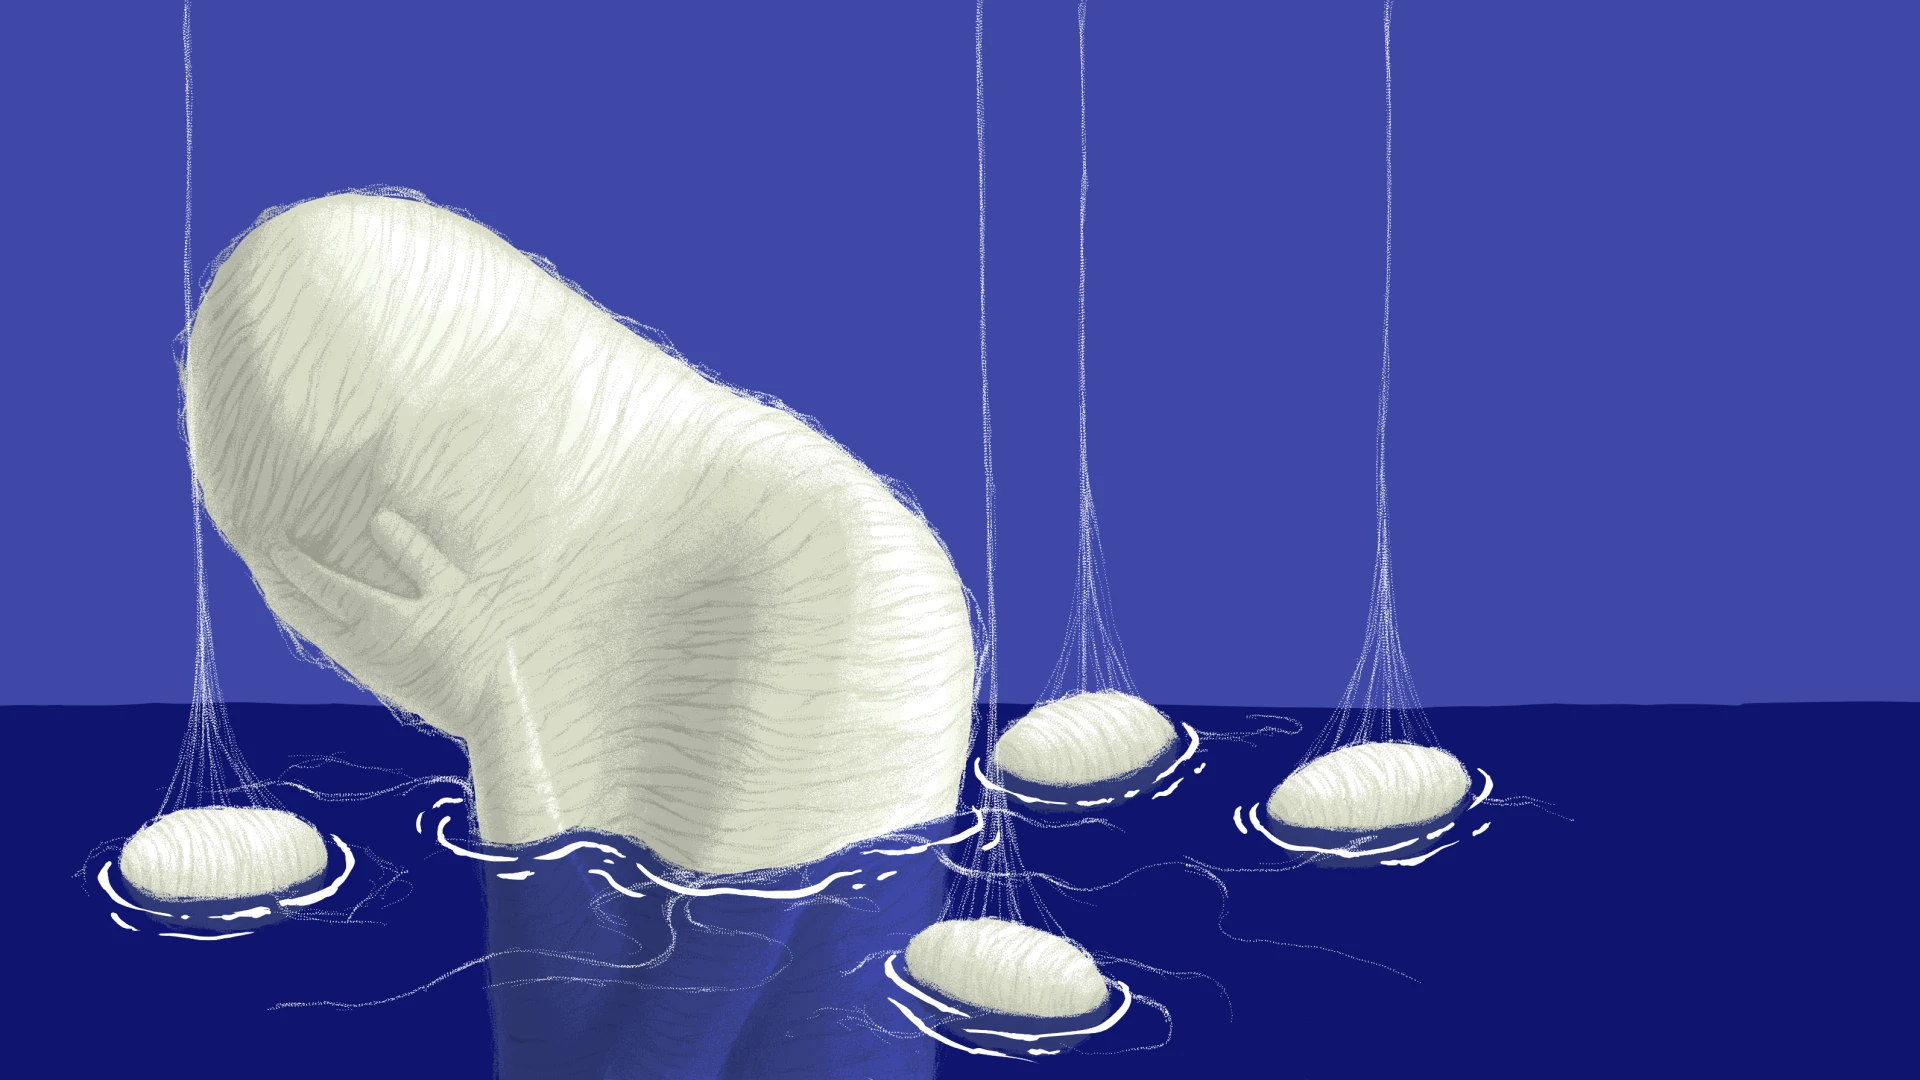
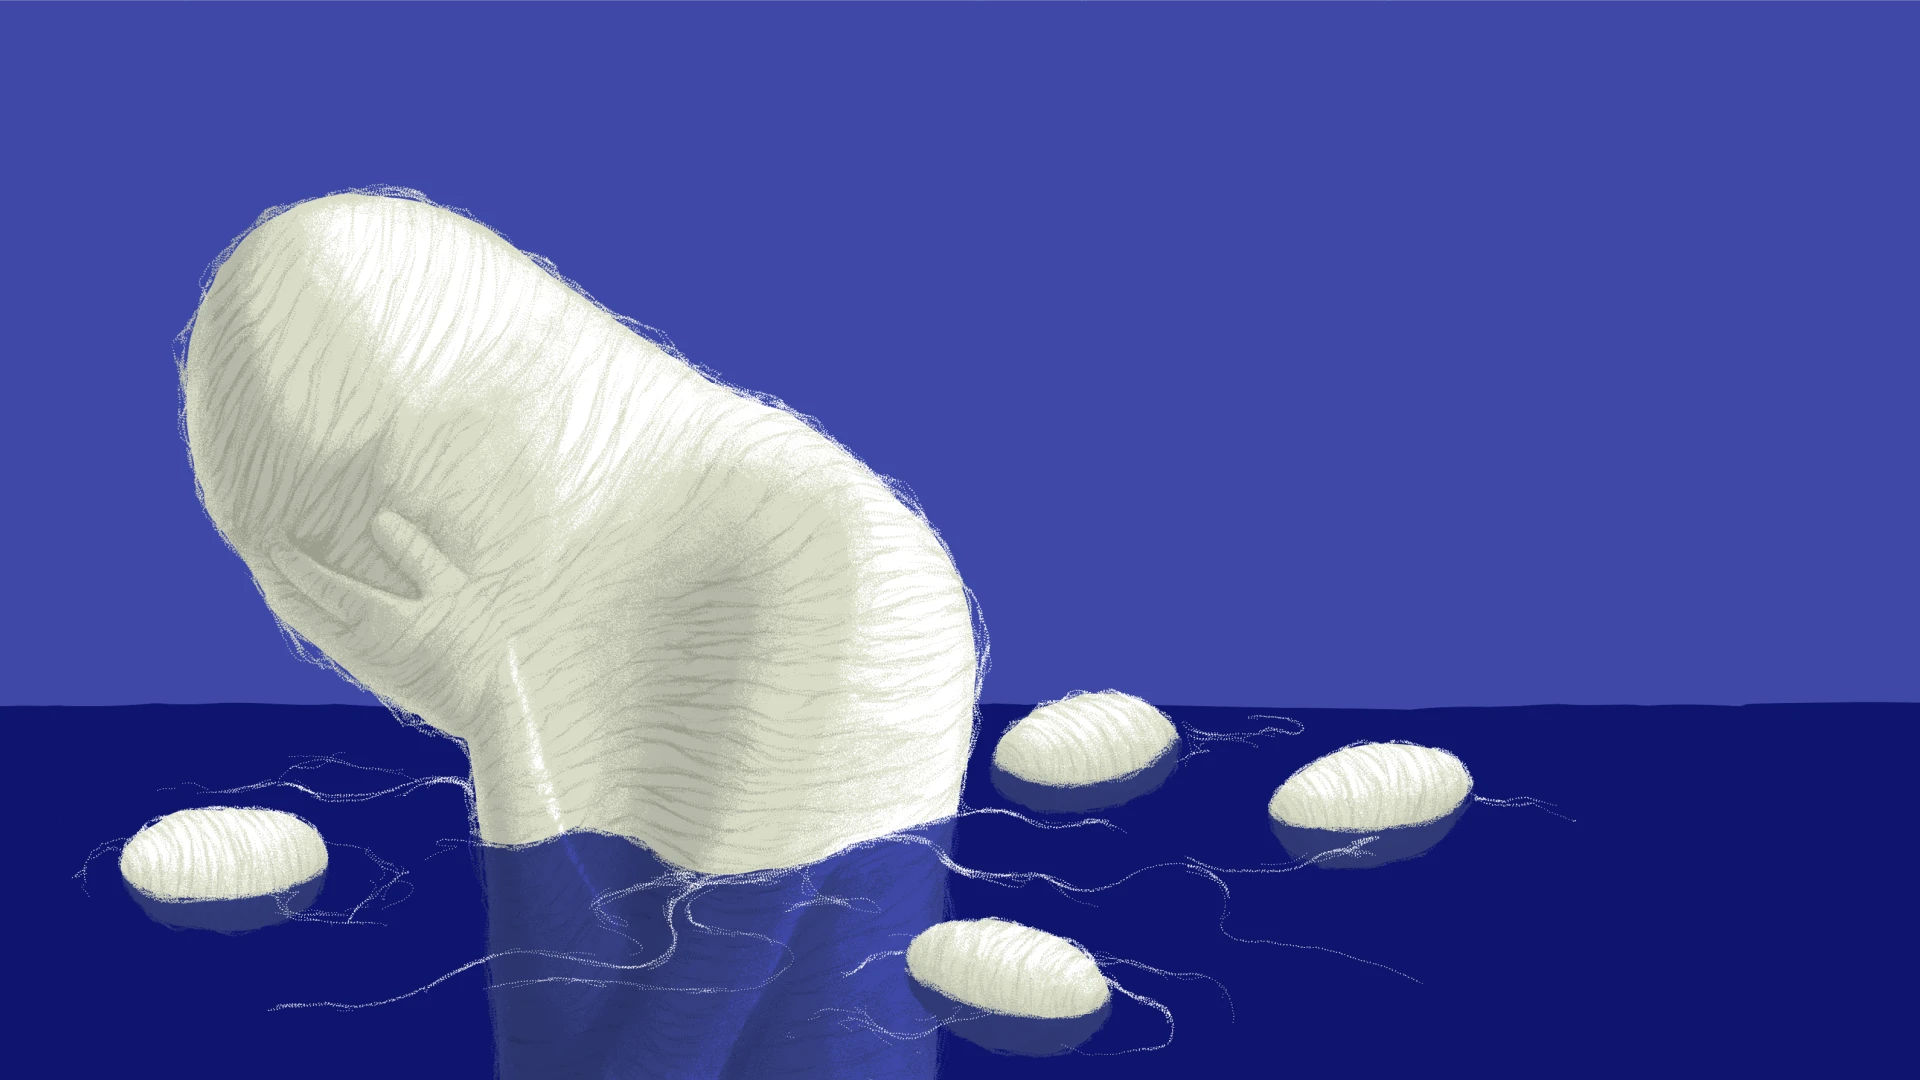
ep7 애니메이션 추가

diff --git a/index.html b/index.html
@@ -538,7 +538,44 @@
           </div>
         </div>
         <div class="page-content ep7 invisible">
-          <div class="img-box"><img src="./resource/ep7_static.webp" /></div>
+          <div class="img-box">
+            <img src="./resource/ep7_static.webp" />
+            <img class="thread opacity" src="./resource/ep7_thread_1.webp" />
+            <img class="thread opacity" src="./resource/ep7_thread_2.webp" />
+            <img class="thread opacity" src="./resource/ep7_thread_3.webp" />
+            <img class="thread opacity" src="./resource/ep7_thread_4.webp" />
+            <img class="water-anime1" src="./resource/ep7_water_1.webp" />
+            <img
+              class="water-anime2"
+              src="./resource/ep7_water_2.webp"
+              usemap="#image-map7" />
+            <map name="image-map7">
+              <area
+                alt="실 풀어내기"
+                title="실 풀어내기"
+                href="#"
+                coords="332,867,317,825,274,806,167,808,120,845,116,881,150,925,233,938,310,916"
+                shape="poly" />
+              <area
+                alt="실 풀어내기"
+                title="실 풀어내기"
+                href="#"
+                coords="910,939,900,978,932,1022,1002,1056,1070,1055,1112,1021,1107,982,1080,943,992,918,944,921"
+                shape="poly" />
+              <area
+                alt="실 풀어내기"
+                title="실 풀어내기"
+                href="#"
+                coords="995,743,985,777,1014,803,1058,821,1154,796,1182,757,1173,723,1122,684,1027,706"
+                shape="poly" />
+              <area
+                alt="실 풀어내기"
+                title="실 풀어내기"
+                href="#"
+                coords="1317,753,1273,787,1263,819,1294,860,1355,872,1443,848,1477,786,1453,750,1382,736"
+                shape="poly" />
+            </map>
+          </div>
           <div class="text-box">
             <div class="text-title bold">“어떡하지”</div>
             <div class="text-content">

diff --git a/script.js b/script.js
@@ -199,17 +199,6 @@ const ep8Opt = [
   `당신은 마스크 속에서&nbsp;<span style="color:#258B6E">시무룩</span>해요`,
 ];
 
-let reportContents = [
-  `점심은 ${ep1Select}으로 먹을래`,
-  `샌드위치에서 ${ep2Select} 빼주세요`,
-  `폰 케이스는 ${ep3Select}이 좋겠어요`,
-  `캐릭터는 ${ep4Select}로 꾸며야겠어`,
-  `인생의 방향은 <span style="color: #F05052">${ep5Select.direction}으로 <span style="color: #639EEA">약 ${ep5Select.angle}</span>`,
-  `난 ${ep6Select} 편이야!`,
-  `이렇게 해보는 건 <span style="color: #0F156D">어때?</span>`,
-  `마스크 속 당신은 ${ep8Select}`,
-];
-
 const updateReport = (ep, index) => {
   switch (ep) {
     case 1:
@@ -379,6 +368,21 @@ const ep6Imgs = document.querySelectorAll('.ep6-click');
 const map6 = document.querySelector('map[name="image-map6"]');
 
 clickToInvisible(6, map6, ep6Imgs);
+
+// ep7
+const ep7Imgs = document.querySelectorAll('.thread');
+const map7 = document.querySelector('map[name="image-map7"]');
+
+const clickToVisible = (map, imgs) => {
+  const maps = map.querySelectorAll('area');
+  maps.forEach((element, index) => {
+    element.addEventListener('click', () => {
+      imgs[index].classList.remove('opacity');
+      reportContainers[6].innerHTML = `이렇게 해보는 건&nbsp;<span style="color: #0F156D">어때?</span>`;
+    });
+  });
+};
+clickToVisible(map7, ep7Imgs);
 
 // ep8
 const ep8Imgs = document.querySelectorAll('.ep8-click');

diff --git a/style.css b/style.css
@@ -512,9 +512,31 @@
 /* ep7 */
 .ep7 {
   justify-content: flex-end;
+  align-items: flex-start;
 }
 .ep7 .text-box {
   text-align: right;
+}
+.thread {
+  transition: 0.3s;
+}
+.water-anime1 {
+  animation: 4s waterAnimation infinite;
+}
+.water-anime2 {
+  animation: 4s waterAnimation 2s infinite;
+}
+
+@keyframes waterAnimation {
+  0% {
+    opacity: 1;
+  }
+  50% {
+    opacity: 0;
+  }
+  100% {
+    opacity: 1;
+  }
 }
 
 /* ep8 */
@@ -664,4 +686,7 @@
 }
 #dragging {
   cursor: grab;
+}
+.opacity {
+  opacity: 0;
 }
